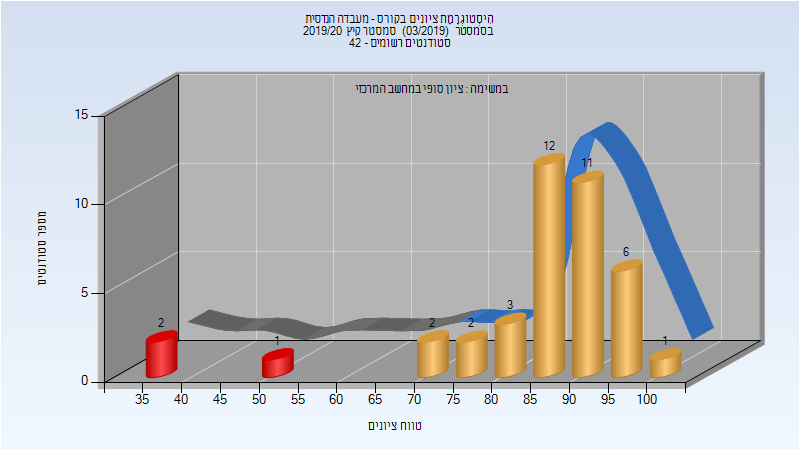
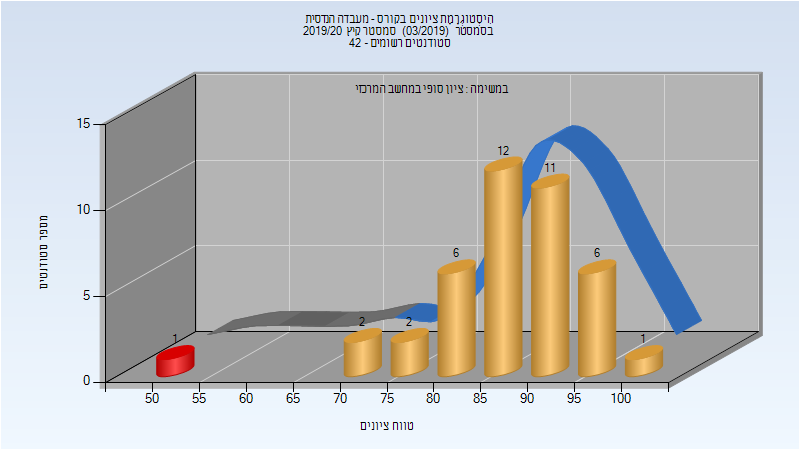
Deploy michael-maltsev/technion-histograms to github.com/michael-maltsev/technion-histograms.git:gh-pages

diff --git a/014104/index.html b/014104/index.html
@@ -901,13 +901,13 @@
 </thead>
 <tbody>
 <tr>
-<td>126</td>
-<td>90/36</td>
-<td>71</td>
+<td>155</td>
+<td>126/29</td>
+<td>81</td>
 <td>20</td>
-<td>97</td>
-<td>65.357</td>
-<td>68</td>
+<td>100</td>
+<td>67.929</td>
+<td>70</td>
 </tr>
 </tbody>
 </table>

diff --git a/014005/index.html b/014005/index.html
@@ -670,12 +670,12 @@
 </thead>
 <tbody>
 <tr>
-<td>40</td>
-<td>37/3</td>
-<td>92</td>
-<td>37</td>
+<td>41</td>
+<td>40/1</td>
+<td>98</td>
+<td>51</td>
 <td>100</td>
-<td>85.025</td>
+<td>87.122</td>
 <td>89</td>
 </tr>
 </tbody>

diff --git a/014104/README.md b/014104/README.md
@@ -285,5 +285,5 @@
 
 | סטודנטים | עברו/נכשלו | אחוז עוברים | ציון מינימלי | ציון מקסימלי | ממוצע | חציון |
 | ---- | ---- | ---- | ---- | ---- | ---- | ---- |
-| 126 | 90/36 | 71 | 20 | 97 | 65.357 | 68 |
+| 155 | 126/29 | 81 | 20 | 100 | 67.929 | 70 |
 

diff --git a/014005/README.md b/014005/README.md
@@ -210,5 +210,5 @@
 
 | סטודנטים | עברו/נכשלו | אחוז עוברים | ציון מינימלי | ציון מקסימלי | ממוצע | חציון |
 | ---- | ---- | ---- | ---- | ---- | ---- | ---- |
-| 40 | 37/3 | 92 | 37 | 100 | 85.025 | 89 |
+| 41 | 40/1 | 98 | 51 | 100 | 87.122 | 89 |
 
